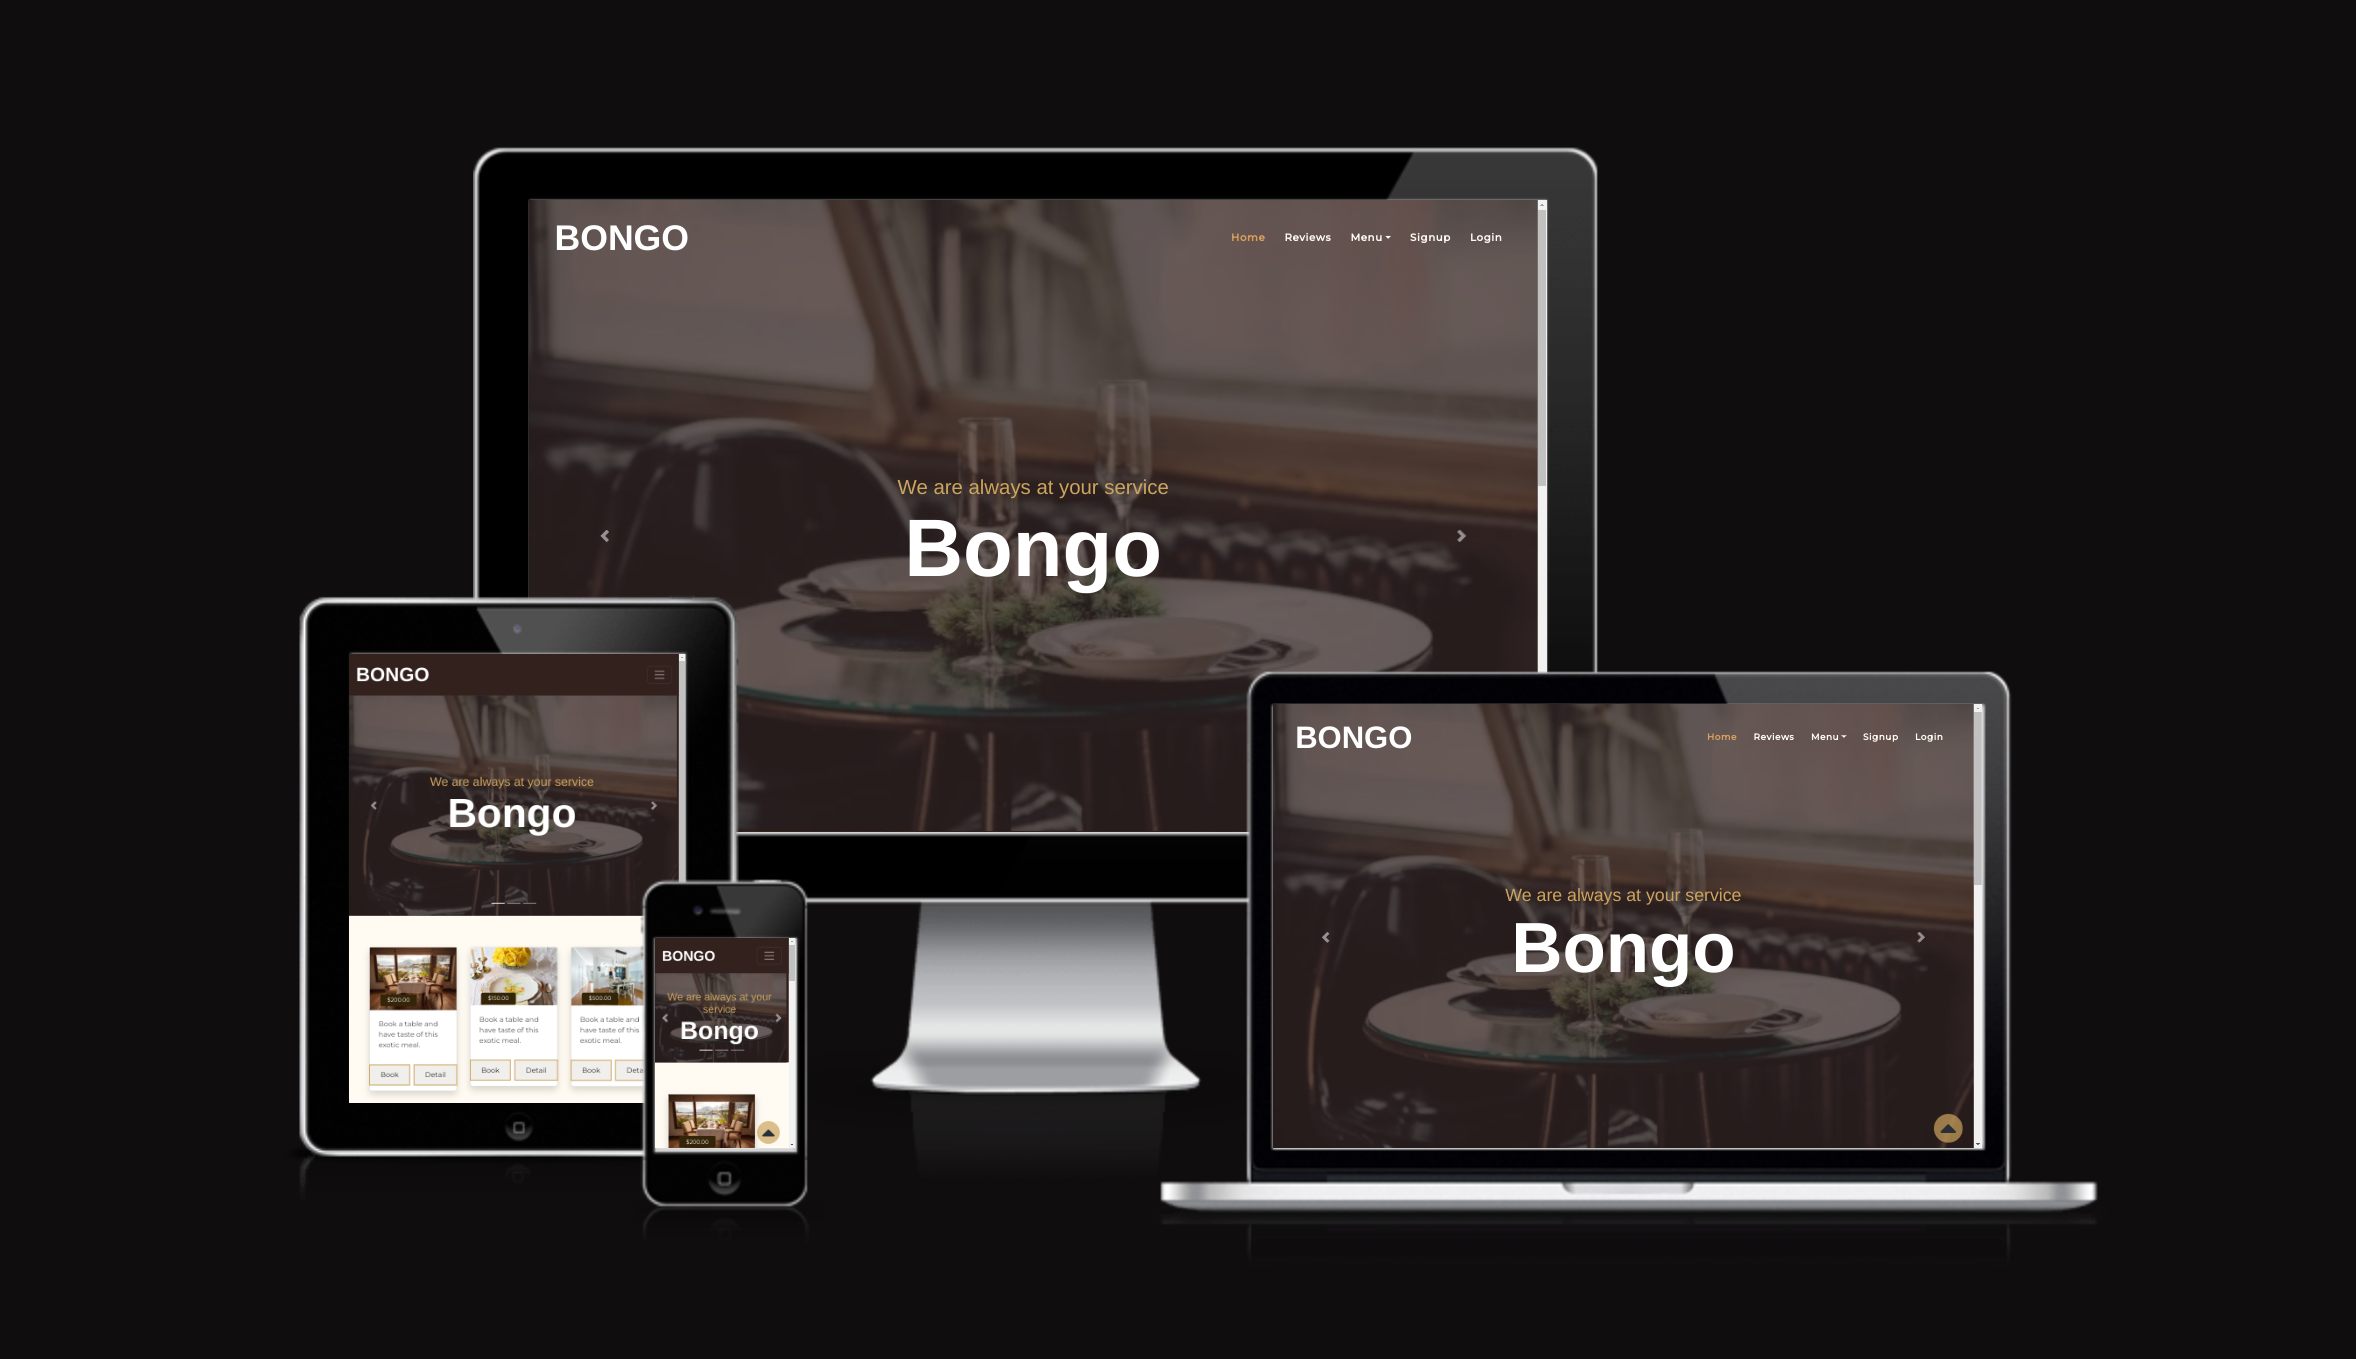
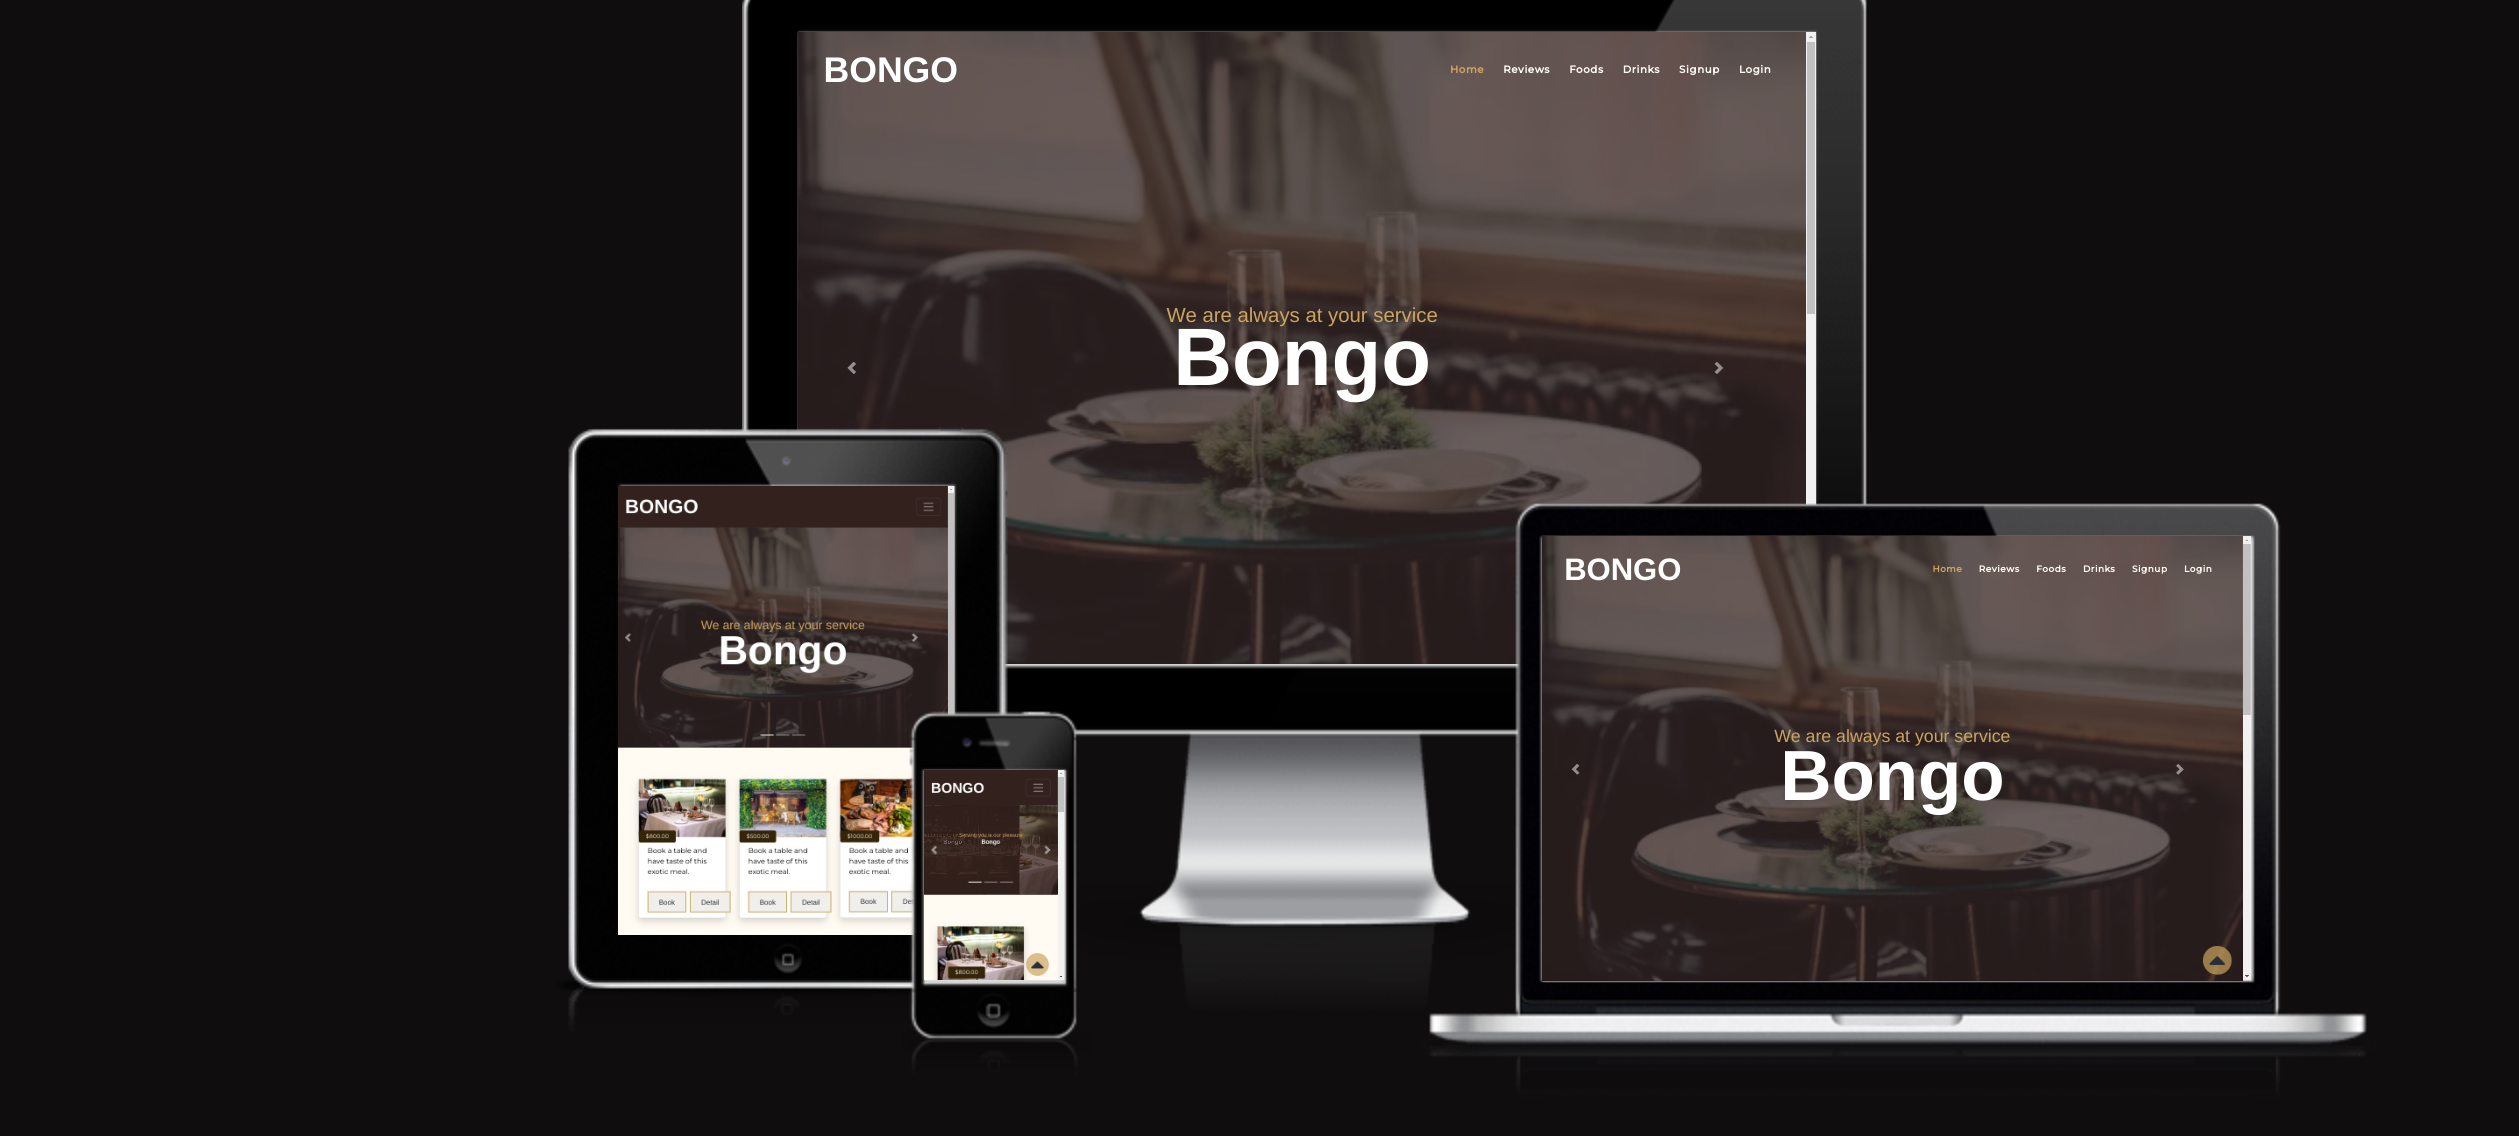
Add image to readme and style to review page.

diff --git a/templates/restaurant/review_list.html b/templates/restaurant/review_list.html
@@ -17,7 +17,7 @@
 <div class="row g-4 mt-5">
 {% if reviews %}
 {% for review in reviews %}
-<div class="col-md-4 mb-5 mb-md-0 service-item rounded">
+<div class="col-md-4 mb-5 mb-md-0 service-item rounded ml-3">
   <div class="d-flex justify-content-center mb-4 mt-3">
     <img src="{{ review.author.profile.avatar.url }}"
       class="rounded-circle shadow-1-strong" width="150" height="150" />

diff --git a/README.md b/README.md
@@ -145,9 +145,9 @@ The site was designed for the user to be familiar with the layout such as a navi
 The footer contains all relevant social media links that the business has so the user can visit any social media site and follow the business there to expand the businesses followers, likes and shares.
 
 - The site consists of the following pages:
-  - Homepage with cards for the user to choose to reserve a table or review it, view the foods or drinks menu.
-  - Food menu has the current list of all available foods from the database sorted by snacks, mains and desserts
-  - Drinks menu has the current list of all available drinks from the database sorted by type
+  - Homepage with cards for the user to choose to reserve a table or review it, view the foods or drinks links.
+  - Food link has the current list of all available foods from the database sorted by snacks, mains and desserts
+  - Drinks link has the current list of all available drinks from the database sorted by type
   - Reserve page allows registered users to reserve a table of given capacity, date time for start of reservation and date time for end of reservation
   - Reservations displays all reservations for the user that they have made, reservations in the past are automatically rejected
   - Edit reservation allows the user to change their date, time
@@ -410,7 +410,7 @@ The Review Model contains the following:
   
 <details><summary>See feature images</summary>
 
-![Reviews](docs/features/review_list.png)
+![Reviews Update](docs/features/reviews_update.png)
 </details>
 
 ### Review
